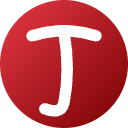
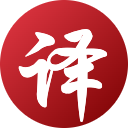
chore: 更新图标生成器: 改用行楷"译"字替代手绘T
- 标题和描述更新为行楷风格
- 使用 fillText 绘制"译"字代替手绘路径
- 调整字体栈适配各平台行楷字体

Changed region(s): [[0.125, 0.1875, 0.8438, 0.9688]]

diff --git a/generate_icon.html b/generate_icon.html
@@ -3,7 +3,7 @@
 
 <head>
     <meta charset="UTF-8">
-    <title>生成 HoverTranslate 红色高级图标</title>
+    <title>生成 HoverTranslate 红色“译”字行楷图标</title>
     <style>
         body {
             font-family: 'Segoe UI', Roboto, sans-serif;
@@ -66,15 +66,14 @@
         canvas {
             background-color: transparent;
             border-radius: 50%;
-            /* 给 canvas 加一点淡淡的阴影，预览效果更好 */
             box-shadow: 0 4px 10px rgba(211, 47, 47, 0.3);
         }
     </style>
 </head>
 
 <body>
-    <h1>生成 HoverTranslate 红色图标</h1>
-    <p class="description">风格：手写体 | 配色：红宝石(Ruby) 转 勃艮第酒红(Bordeaux) 配纯白 (极致高对比/高级感)</p>
+    <h1>生成 HoverTranslate “译”字图标</h1>
+    <p class="description">风格：行楷汉字排版 (流畅生动) | 配色：红宝石 转 勃艮第酒红 配纯白</p>
 
     <div class="canvas-container" id="canvas-container"></div>
 
@@ -82,18 +81,17 @@
         const sizes = [128, 48, 32, 16];
         const container = document.getElementById('canvas-container');
 
-        // 全新红色高级配色定义
+        // 配色定义
         const colors = {
-            bgStart: '#E63946', // 红宝石色 (Ruby Red) - 明亮、有活力
-            bgEnd: '#780000',   // 深勃艮第酒红 (Bordeaux) - 深邃、压住浮躁感
-            text: '#FFFFFF'     // 纯白 (Pure White) - 提供最清晰的对比度
+            bgStart: '#E63946', // Ruby
+            bgEnd: '#780000',   // Bordeaux
+            text: '#FFFFFF'
         };
 
         sizes.forEach(size => {
             const itemDiv = document.createElement('div');
             itemDiv.className = 'icon-item';
 
-            // 1. 创建 Canvas 元素
             const canvas = document.createElement('canvas');
             canvas.width = size;
             canvas.height = size;
@@ -103,8 +101,7 @@
             ctx.imageSmoothingEnabled = true;
             ctx.imageSmoothingQuality = 'high';
 
-            // --- 2. 绘制圆形背景 (红色高级渐变) ---
-            // 调整渐变角度，从左上角到右下角，增加光影立体感
+            // 绘制圆形背景渐变
             const gradient = ctx.createLinearGradient(0, 0, size, size);
             gradient.addColorStop(0, colors.bgStart);
             gradient.addColorStop(1, colors.bgEnd);
@@ -114,31 +111,30 @@
             ctx.arc(size / 2, size / 2, size / 2, 0, Math.PI * 2);
             ctx.fill();
 
-            // --- 3. 绘制手写体 'T' ---
-            ctx.strokeStyle = colors.text;
+            // 绘制文字“译”
+            const text = "译";
 
-            // 笔画粗细设定
-            const lineWidth = Math.max(1.5, size * 0.09);
-            ctx.lineWidth = lineWidth;
-            ctx.lineCap = 'round';
-            ctx.lineJoin = 'round';
+            // 行楷字体往往比较饱满且有连笔动作，
+            // 设为 60% 保持在圆环内，避免显得拥挤。
+            const fontSize = size * 0.80;
 
-            const p = (val) => val * size / 100;
+            // 1. 设置字体粗细：bold (行楷本身笔画流动，bold能增加厚重感)
+            // 2. 设置字体栈：
+            // - "STXingkai": 华文行楷，Mac和部分Windows(带Office)常见。
+            // - "Xingkai SC": 行楷-简，特定macOS版本字体。
+            // - "KaiTi": 楷体，Windows和Android常见保底系统字体（虽然是楷体，但在 script-like 风格中作为保底）。
+            // - cursive: 最终保底使用手写风格字体。
+            ctx.font = `bold ${fontSize}px "STXingkai", "Huawen Xingkai", "Xingkai SC", "KaiTi", "STKaiti", cursive`;
 
-            ctx.beginPath();
+            ctx.fillStyle = colors.text;
 
-            // T 字顶部横梁 (保持流畅弧度)
-            ctx.moveTo(p(25), p(28));
-            ctx.quadraticCurveTo(p(50), p(20), p(75), p(28));
+            ctx.textAlign = 'center';
+            ctx.textBaseline = 'middle';
 
-            // T 字竖笔 (从中间偏上开始，向下延伸并向左起钩)
-            ctx.moveTo(p(50), p(25));
-            ctx.quadraticCurveTo(p(55), p(55), p(50), p(80));
-            ctx.quadraticCurveTo(p(48), p(90), p(35), p(85));
+            // 行楷汉字的视觉中心通常也需要轻微上移平衡位置，保持 0.02 的偏移量
+            ctx.fillText(text, size / 2, size / 2 + size * 0.02);
 
-            ctx.stroke();
-
-            // --- 4. 创建下载按钮 ---
+            // 创建下载按钮
             const button = document.createElement('button');
             button.innerText = `下载 icon${size}.png (${size}x${size})`;
             button.onclick = () => {

diff --git a/popup.html b/popup.html
@@ -62,7 +62,7 @@
     <h3>🎨 主题风格</h3>
     <label for="theme">请选择翻译弹窗外观：</label>
     <select id="theme">
-        <option value="theme-light">简约护眼白 (默认)</option>
+        <option value="theme-light" selected>简约护眼白 (默认)</option>
         <option value="theme-dark">经典极客黑</option>
         <option value="theme-red">高级勃艮第红</option>
     </select>

diff --git a/popup.js b/popup.js
@@ -3,7 +3,7 @@ document.addEventListener('DOMContentLoaded', () => {
     const statusText = document.getElementById('status');
 
     // 1. 打开弹窗时，读取当前保存的设置并选中
-    chrome.storage.sync.get({ theme: 'theme-red' }, (items) => {
+    chrome.storage.sync.get({ theme: 'theme-light' }, (items) => {
         themeSelect.value = items.theme;
     });
 
